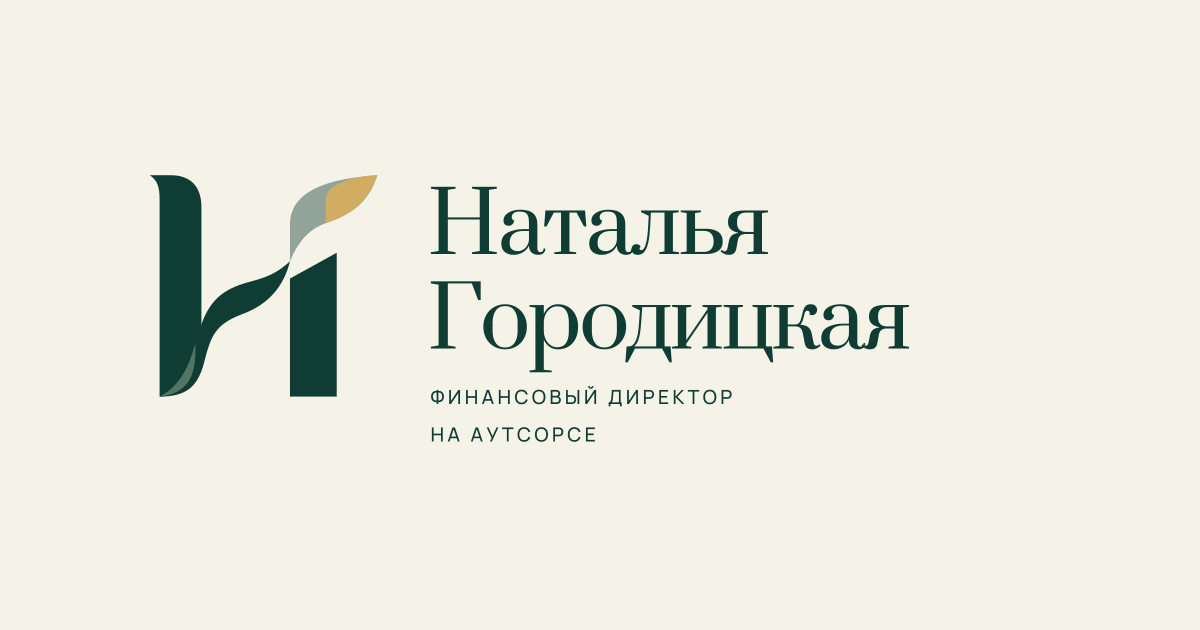
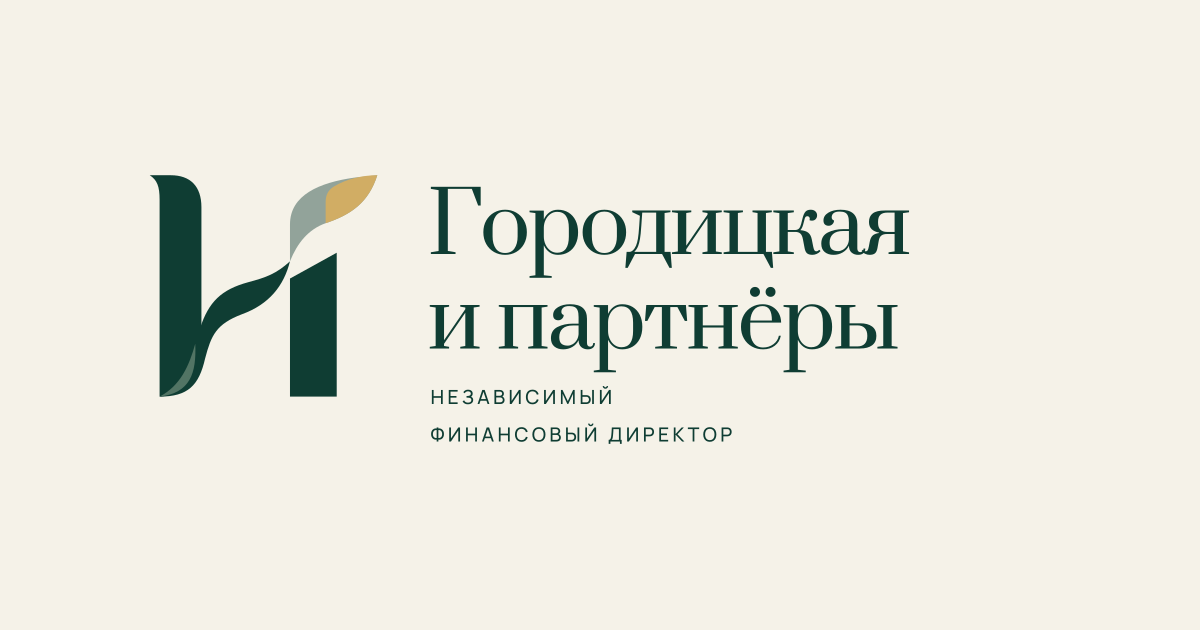
Update Site source

Changed region(s): [[0.3392, 0.4222, 0.7708, 0.7238], [0.37, 0.2714, 0.7708, 0.4524]]

diff --git a/src/data/site.ts b/src/data/site.ts
@@ -1,5 +1,6 @@
 export const showFaq = false;
 export const site = {
+  brand: 'Городицкая и партнёры',
   name: 'Наталья Городицкая', email: 'Gorodickaya@yandex.ru', phone: '+7 (915) 015-15-08', phoneHref: '+79150151508',
   messengerPhone: '+7 (918) 859-38-00', messengerDigits: '79188593800',
   role: 'Независимый финансовый директор',
